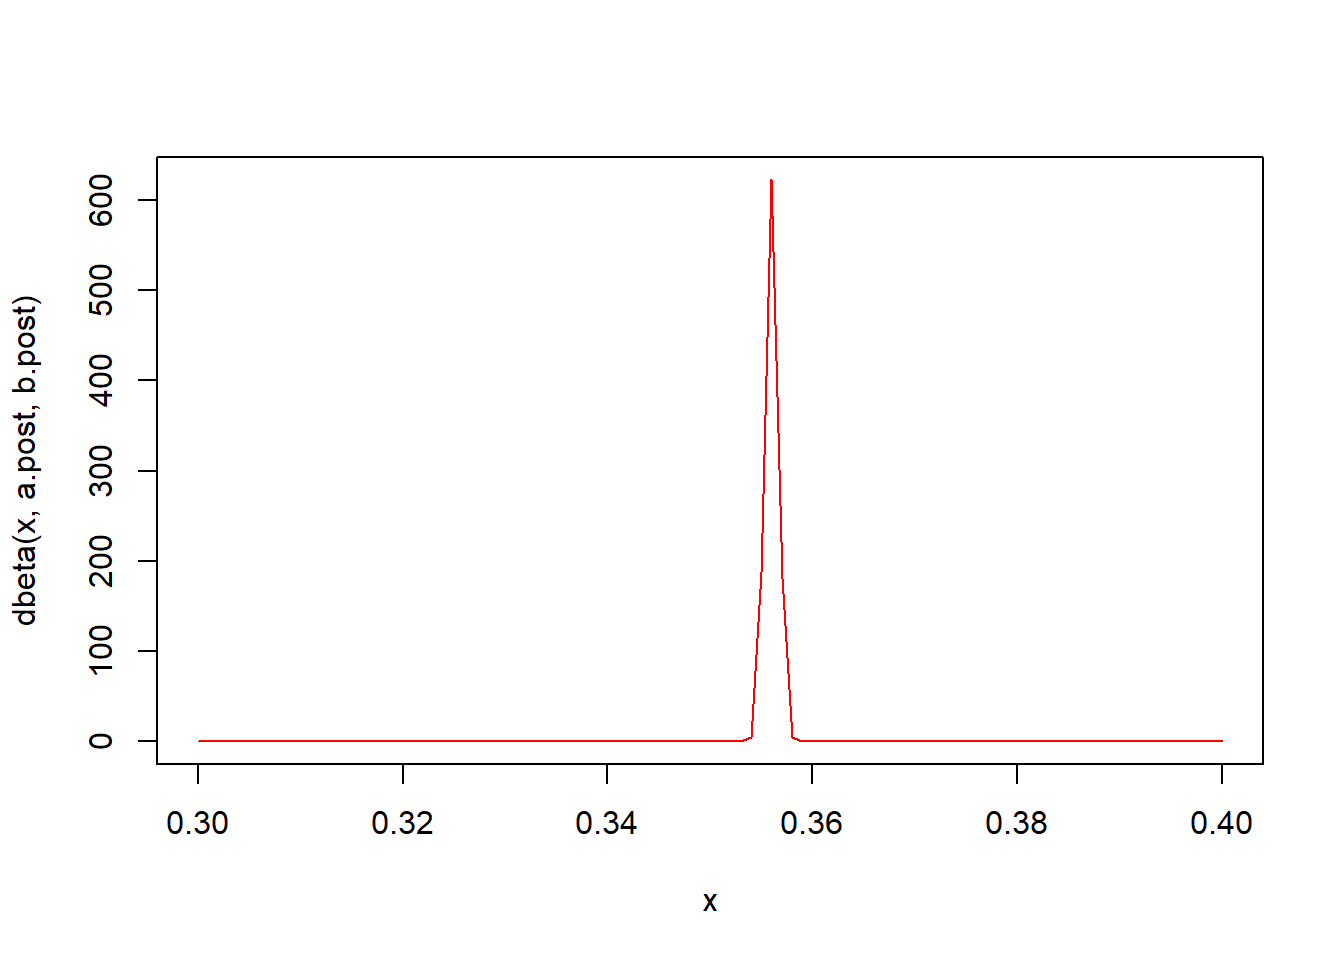
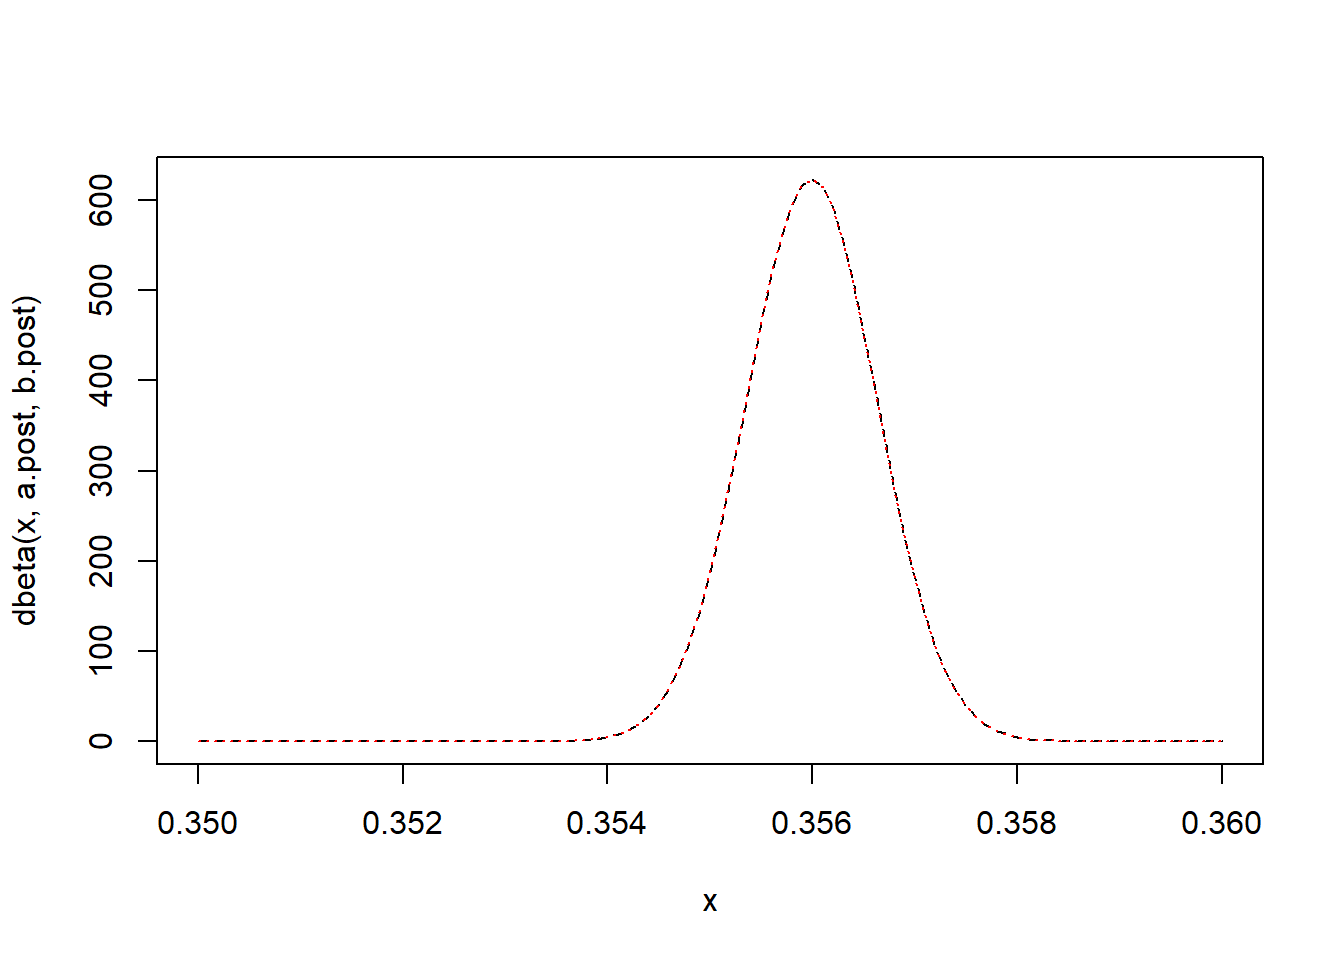
Script2

diff --git a/docs/Script2.html b/docs/Script2.html
@@ -198,7 +198,7 @@ window.Quarto = {
 <span id="cb3-2"><a href="#cb3-2" aria-hidden="true" tabindex="-1"></a>  <span class="fu">ifelse</span>(a<span class="sc">&gt;</span><span class="dv">1</span> <span class="sc">&amp;</span> b<span class="sc">&gt;</span><span class="dv">1</span>, (a<span class="dv">-1</span>)<span class="sc">/</span>(a<span class="sc">+</span>b<span class="dv">-2</span>), <span class="cn">NA</span>)</span>
 <span id="cb3-3"><a href="#cb3-3" aria-hidden="true" tabindex="-1"></a>}</span></code><button title="Copy to Clipboard" class="code-copy-button"><i class="bi"></i></button></pre></div>
 </div>
-<p>The updated hyperparameters and the posterior mode <span class="math inline">\(\tilde{\theta}}\)</span> are:</p>
+<p>The updated hyperparameters and the posterior mode <span class="math inline">\(\tilde{\theta}\)</span> are:</p>
 <div class="cell">
 <div class="sourceCode cell-code" id="cb4"><pre class="sourceCode r code-with-copy"><code class="sourceCode r"><span id="cb4-1"><a href="#cb4-1" aria-hidden="true" tabindex="-1"></a>a.post <span class="ot">&lt;-</span> a <span class="sc">+</span> sum_y; a.post</span></code><button title="Copy to Clipboard" class="code-copy-button"><i class="bi"></i></button></pre></div>
 <div class="cell-output cell-output-stdout">
@@ -215,7 +215,7 @@ window.Quarto = {
 <pre><code>[1] 0.3559923</code></pre>
 </div>
 </div>
-<p>Finally, the variance of the approximated normal distribution, namely the <strong>inverse</strong> of <span class="math inline">\(\left. -\frac{\partial^2 \log \pi(\theta | \textbf)}{\partial \theta^2} \right|_{\theta = \tilde{\theta}}\)</span>.</p>
+<p>Finally, the variance of the approximated normal distribution, namely the <strong>inverse</strong> of <span class="math inline">\(\left. -\frac{\partial^2 \log \pi(\theta | \textbf{y})}{\partial \theta^2} \right|_{\theta = \tilde{\theta}}\)</span>.</p>
 <div class="cell">
 <div class="sourceCode cell-code" id="cb10"><pre class="sourceCode r code-with-copy"><code class="sourceCode r"><span id="cb10-1"><a href="#cb10-1" aria-hidden="true" tabindex="-1"></a>sigma_approx <span class="ot">&lt;-</span> ((a.post<span class="dv">-1</span>)<span class="sc">/</span>(post.mode<span class="sc">^</span><span class="dv">2</span>) <span class="sc">+</span> (b.post<span class="dv">-1</span>)<span class="sc">/</span>(<span class="dv">1</span><span class="sc">-</span>post.mode)<span class="sc">^</span><span class="dv">2</span>)<span class="sc">^</span>(<span class="sc">-</span><span class="dv">1</span>)</span>
 <span id="cb10-2"><a href="#cb10-2" aria-hidden="true" tabindex="-1"></a></span>
@@ -226,8 +226,8 @@ window.Quarto = {
 </div>
 <p>Let’s compare the true posterior distribution with its Normal approximation:</p>
 <div class="cell">
-<div class="sourceCode cell-code" id="cb12"><pre class="sourceCode r code-with-copy"><code class="sourceCode r"><span id="cb12-1"><a href="#cb12-1" aria-hidden="true" tabindex="-1"></a><span class="fu">curve</span>(<span class="fu">dbeta</span>(x, a.post, b.post), <span class="at">xlim=</span><span class="fu">c</span>(.<span class="dv">3</span>,.<span class="dv">4</span>))</span>
-<span id="cb12-2"><a href="#cb12-2" aria-hidden="true" tabindex="-1"></a><span class="fu">curve</span>(<span class="fu">dnorm</span>(x, post.mode, <span class="fu">sqrt</span>(sigma_approx)), <span class="at">add=</span>T, <span class="at">col=</span><span class="st">"red"</span>)</span></code><button title="Copy to Clipboard" class="code-copy-button"><i class="bi"></i></button></pre></div>
+<div class="sourceCode cell-code" id="cb12"><pre class="sourceCode r code-with-copy"><code class="sourceCode r"><span id="cb12-1"><a href="#cb12-1" aria-hidden="true" tabindex="-1"></a><span class="fu">curve</span>(<span class="fu">dbeta</span>(x, a.post, b.post), <span class="at">xlim=</span><span class="fu">c</span>(.<span class="dv">35</span>,.<span class="dv">36</span>), <span class="at">lty =</span> <span class="st">"dashed"</span>)</span>
+<span id="cb12-2"><a href="#cb12-2" aria-hidden="true" tabindex="-1"></a><span class="fu">curve</span>(<span class="fu">dnorm</span>(x, post.mode, <span class="fu">sqrt</span>(sigma_approx)), <span class="at">add=</span>T, <span class="at">col=</span><span class="st">"red"</span>, <span class="at">lty =</span> <span class="st">"dotted"</span>)</span></code><button title="Copy to Clipboard" class="code-copy-button"><i class="bi"></i></button></pre></div>
 <div class="cell-output-display">
 <div>
 <figure class="figure">
@@ -288,7 +288,8 @@ window.Quarto = {
 </div>
 <p>The first group receives the new vaccine, while the second group receives the placebo.</p>
 <p>After the treatments, the biostatistician records the number of deaths in each group, denoted by <span class="math inline">\(Y_1\)</span> and <span class="math inline">\(Y_2\)</span>, respectively.</p>
-<p><span class="math inline">\(Y_1 \sim Bernoulli(\theta_1)\)</span>\ <span class="math inline">\(Y_2 \sim Bernoulli(\theta_2)\)</span></p>
+<p><span class="math inline">\(Y_1|\theta_1 \sim Bernoulli(\theta_1)\)</span></p>
+<p><span class="math inline">\(Y_2| \theta_2 \sim Bernoulli(\theta_2)\)</span></p>
 <p><span class="math inline">\(\theta_j\)</span> represents the probability of death in group <span class="math inline">\(j\)</span>.</p>
 <p>The biostatistician chooses to use non-informative priors for the parameters.</p>
 <div class="cell">
@@ -369,7 +370,8 @@ window.Quarto = {
 </div>
 </div>
 </div>
-<p>Using Monte Carlo sampling, the biostatistician estimates that, with 95% probability, the log odds ratio falls within the interval (-3.453943, -2.069884). This indicates that the odds of death in the “Vaccine” group are significantly lower than those in the “Placebo” group.</p>
+<p>Using Monte Carlo sampling, the biostatistician estimates that, with 95% probability, the log odds ratio falls within the interval (-3.453943, -2.069884).<br>
+This indicates that the odds of death in the “Vaccine” group are significantly lower than those in the “Placebo” group.</p>
 
 
 </section>
